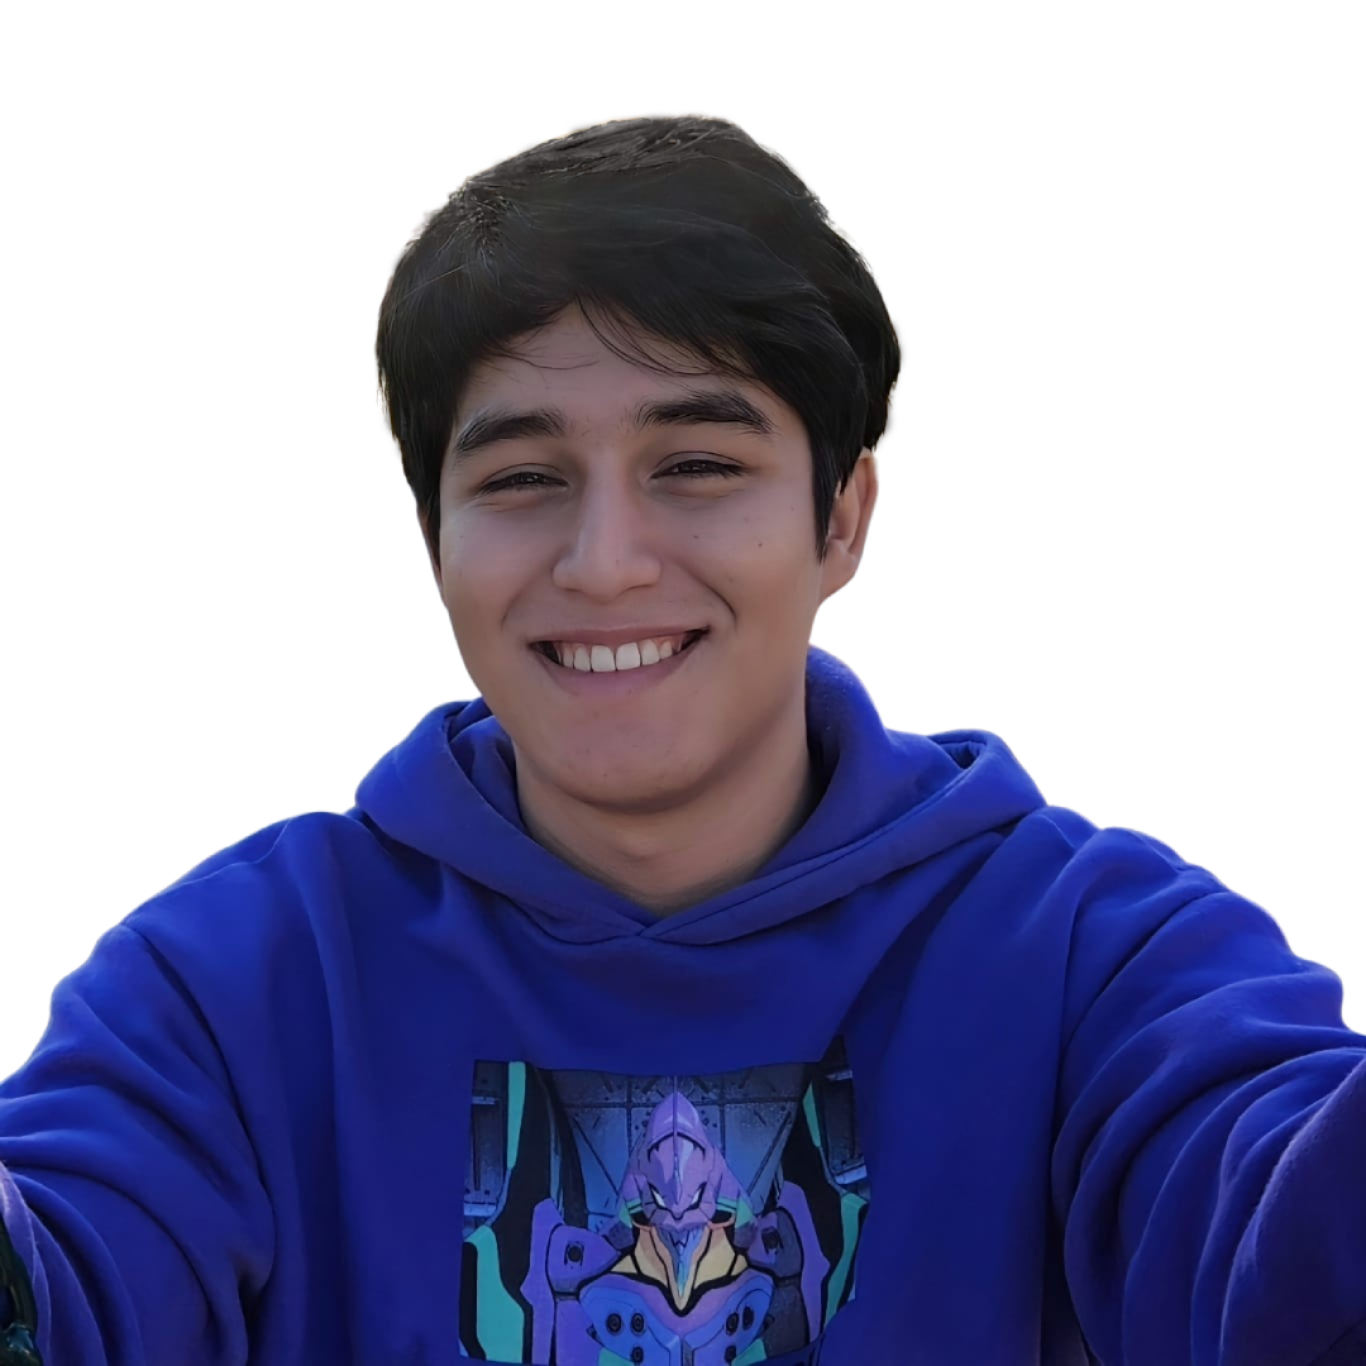
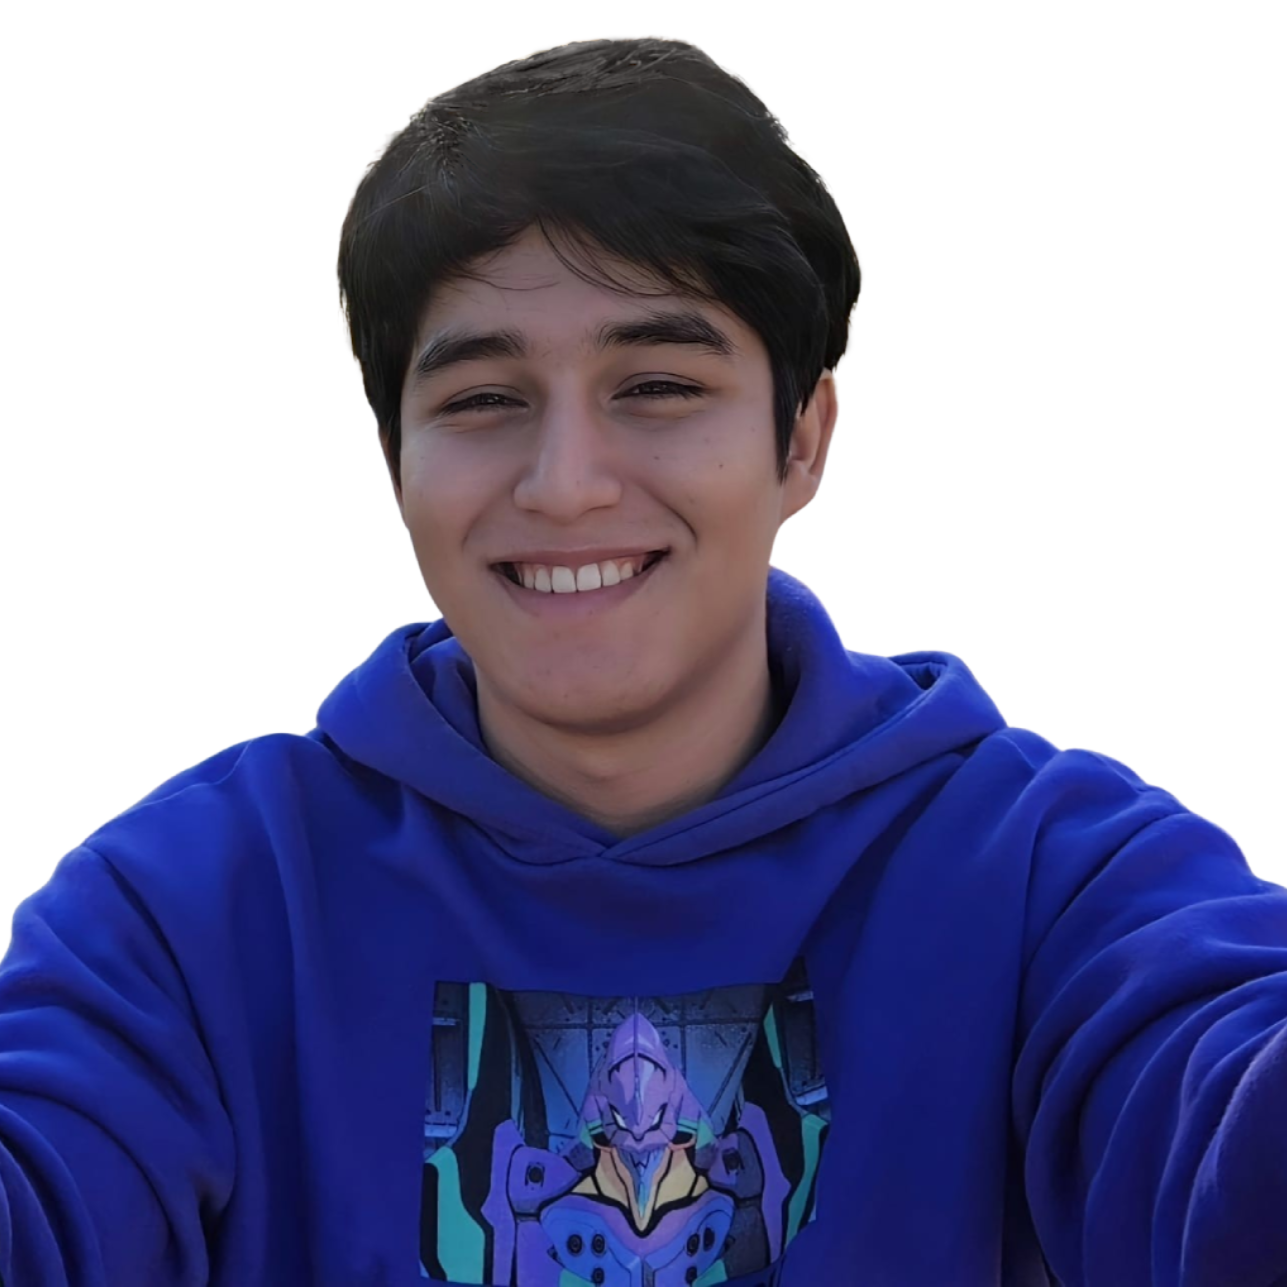
Update styles and components

Changed region(s): [[0.0, 0.0311, 1.0, 1.0], [0.3108, 0.7459, 0.6527, 1.0], [0.6216, 0.6838, 0.6527, 0.7148]]

diff --git a/src/hooks/useInteractiveLayout.js b/src/hooks/useInteractiveLayout.js
@@ -6,36 +6,30 @@ import { useCallback, useEffect, useState } from 'react'
 const interactiveElementTypes = [
   {
     className: 'interactive-aura',
-    clone: true,
-    includeChildren: true
+    clone: true
   },
   {
     className: 'interactive-border'
   },
   {
     tag: 'h2',
-    clone: true,
-    includeChildren: true
+    clone: true
   },
   {
     tag: 'strong',
-    clone: true,
-    includeChildren: true
+    clone: true
   },
   {
     className: 'interactive-text',
-    clone: true,
-    includeChildren: true
+    clone: true
   },
   {
     className: 'interactive-button-secondary',
-    clone: true,
-    includeChildren: true
+    clone: true
   },
   {
     className: 'interactive-icon',
-    clone: true,
-    includeChildren: true
+    clone: true
   }
 ]
 
@@ -156,7 +150,7 @@ export default function useInteractiveLayout(layoutElement) {
         const interactiveElementType = getInteractiveElementType(element)
 
         const interactiveElement = interactiveElementType.clone
-          ? element.cloneNode(interactiveElementType.includeChildren)
+          ? element.cloneNode(true)
           : document.createElement('div')
 
         if (interactiveElementType.clone)
@@ -175,6 +169,6 @@ export default function useInteractiveLayout(layoutElement) {
       }
 
       refreshLayoutElements({ elements: newElements })
-    }, 500)
+    }, 800)
   }, [layoutElement, elements, refreshLayoutElements])
 }

diff --git a/src/styles/Avatar.module.css b/src/styles/Avatar.module.css
@@ -1,8 +1,6 @@
 .base {
   position: relative;
-  height: auto;
   width: 19.5rem;
-  aspect-ratio: 1;
   margin-bottom: 3.5rem;
 
   font-size: 0;
@@ -13,24 +11,27 @@
   position: absolute;
   bottom: 0;
   left: 0;
-  height: 80%;
-  width: 90%;
+  height: 100%;
+  width: 100%;
+  scale: 0.85;
+  transform-origin: bottom;
 
   background: linear-gradient(
-    to right bottom,
-    var(--accent-color),
-    var(--secondary-accent-color)
+    to bottom left,
+    var(--dim-accent-color),
+    var(--dim-secondary-accent-color)
   );
   clip-path: polygon(20% 0%, 100% 0%, 80% 100%, 0% 100%);
 }
 
 .base .img {
-  clip-path: polygon(22.5% 0%, 94.5% 0%, 72% 100%, 0% 100%);
+  clip-path: polygon(27.5% 0%, 95.5% 0%, 75.5% 100%, 7.5% 100%);
   box-shadow: 0 3rem 2rem 1rem var(--dim-background);
 }
 
 @media (max-width: 800px) {
   .base {
-    width: 17rem;
+    width: 15rem;
+    margin-bottom: 0;
   }
 }

diff --git a/src/sections/LandingSection.jsx b/src/sections/LandingSection.jsx
@@ -9,7 +9,6 @@ import Link from '@/components/Link'
 import RichText from '@/components/RichText'
 import Section from '@/components/Section'
 import { downloadIcon } from '@/constants/icons'
-import clsx from 'clsx/lite'
 import getDictionary, { getCurrentLocale } from 'i18n/server'
 
 export default async function LandingSection({ id }) {
@@ -22,7 +21,7 @@ export default async function LandingSection({ id }) {
   return (
     <Section as='header' background={false} className={styles.base} id={id}>
       <div className={styles.info}>
-        <h1 className={clsx(styles.title, 'interactive-text')}>{name}</h1>
+        <h1 className={styles.title}>{name}</h1>
         <RichText as='p' className={styles.presentation}>
           {presentation}
         </RichText>

diff --git a/src/styles/Footer.module.css b/src/styles/Footer.module.css
@@ -3,7 +3,7 @@
   background-color: var(--foreground-color);
   color: var(--background-color);
 
-  width: min(55rem, calc(100% - 5rem));
+  width: min(50rem, calc(100% - 2rem));
   padding: 0.75rem 1.5rem;
   margin: 0 auto 1rem;
 

diff --git a/src/styles/LandingSection.module.css b/src/styles/LandingSection.module.css
@@ -70,7 +70,7 @@ header.base {
   header.base {
     flex-direction: column-reverse;
     justify-content: flex-end;
-    gap: 0;
+    gap: 1.5rem;
 
     height: max(42rem, calc(100vh - 15rem));
     width: 100%;

diff --git a/app/[locale]/page.module.css b/app/[locale]/page.module.css
@@ -1,7 +1,7 @@
 .base {
   height: 100%;
   width: 100%;
-  padding-bottom: 2rem;
+  padding-bottom: 1rem;
 
   z-index: 1;
 }
